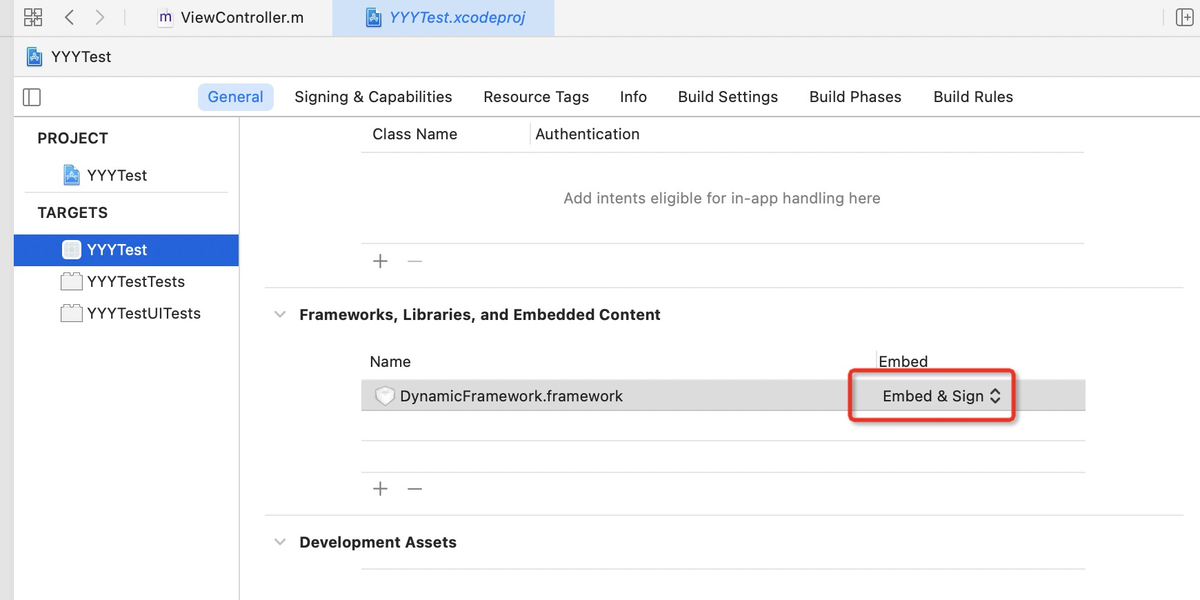
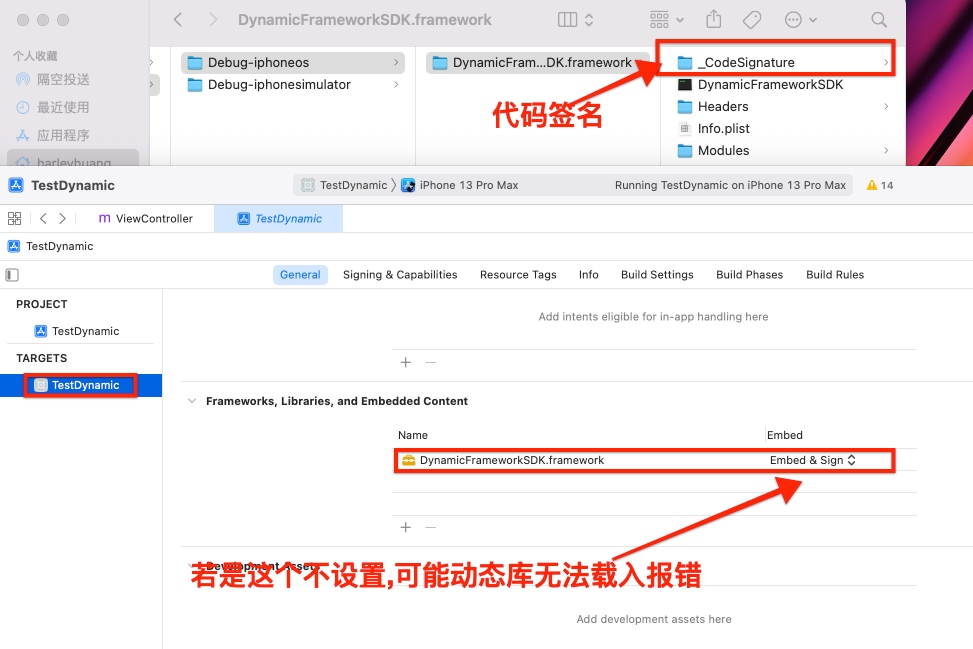
feat: 手动动态库

diff --git a/iOS/Objective-C/静态库动态库.md b/iOS/Objective-C/静态库动态库.md
@@ -672,17 +672,129 @@ AFNetworking的动态库
 
 > <h2 id='动态库打包'>动态库打包</h2>
 
-&emsp; 动态库frame的大包和[静态库.framework生成](#静态库.framework生成)基本一样,但还有些小地方是不同的如下:
 
-- 在动态库大包中需要修改`Mach-o`属性为`Dynamic Library`;
+<br/>
+
+- **创建一个DynamicFrameworkSDK动态库,然后再创建一个Test类文件,将Test文件导入DynamicFrameworkSDK.h文件中,如下:**
+
+![Test文件导入](https://raw.githubusercontent.com/harleyGit/StudyNotes/master/Pictures/ios_oc69.png)
+
+头文件导入:
+
+![头文件导入](https://raw.githubusercontent.com/harleyGit/StudyNotes/master/Pictures/ios_oc68.png)
+
+
+&emsp; 动态库frame的打包和[静态库.framework生成](#静态库.framework生成)基本一样,如在动态库打包中需要修改`Mach-o`属性为`Dynamic Library`;
+
+
+<br/>
+
+- **导出动态库**
+
+&emsp; 使用**Command+B**分别运行真机和模拟器打出真机动态库和模拟器动态库,然后使用 **`lipo -out xxx模拟器库地址 xxx真机库地址 -output /Users/harleyhuang/Desktop/DynamicFrameworkSDK1`** 打出真机和模拟器都能用的动态库.
+
+
+
+&emsp; 这里会出现一个问题那就是,若是模拟器动态库和真机动态库的架构都有arm64则会合并时报错如:
+
+```
+error: /Applications/Xcode.app/Contents/Developer/Toolchains/XcodeDefault.xctoolchain/usr/bin/lipo: xxxx/Products/Debug-iphonesimulator/DynamicFrameworkSDK.framework/DynamicFrameworkSDK and xxxx/Products/Debug-iphoneos/DynamicFrameworkSDK.framework/DynamicFrameworkSDK have the same architectures (arm64) and can't be in the same fat output file
+```
+
+那么则让模拟器排除arm64架构就可以了,如下图:
+
+![模拟器排除arm64架构](https://raw.githubusercontent.com/harleyGit/StudyNotes/master/Pictures/ios_oc70.png)
+
+&emsp; 但是在M1的Mac并且Xcode12版本以上,制作动态库可以不设置,也是可以的.如下:
+
+
+![配置不设置](https://raw.githubusercontent.com/harleyGit/StudyNotes/master/Pictures/ios_oc75.png)
+
+<br/>
+
+
+&emsp; 然后将导出的动态库DynamicFrameworkSDK1拖入真机或者模拟器生成的动态库DynamicFrameworkSDK.framework文件夹内,然后删除其DynamicFrameworkSDK将DynamicFrameworkSDK1改为DynamicFrameworkSDK即可.
+
+如下:
+
+![真机和模拟器的动态库](https://raw.githubusercontent.com/harleyGit/StudyNotes/master/Pictures/ios_oc74.png)
+
+&emsp; 但是在项目中会报错:`building for iOS Simulator, but linking in object file built for iOS, for architecture arm64`这是因为Apple M1，Xcode 12模拟器的库需要的是arm64架构；但是很多第三方针对模拟器编译后的库并不包含arm64，因此报错.
+
+解决方法是使用rossetta2运行XCode,具体设置如下:
+
+![rossetta2](https://raw.githubusercontent.com/harleyGit/StudyNotes/master/Pictures/ios_oc72.png)
+
 
 - 将打包好后的通用库拖进工程,在需要的地方进行如下导入:`#import<xxxxFramework/xxxxFramwork.h>`即可调用功能代码,另外还要进行如下配置流程
 
 ![嵌入](https://raw.githubusercontent.com/harleyGit/StudyNotes/master/Pictures/ios_oc52.png)
 
 
-**注：默认是Do not embed, 需要设置为Embed & Sign，否则会报以下错误:**
+**注：默认是`Do not embed`, 需要设置为`Embed & Sign`，否则会报以下错误:**
 **dyld: Library not loaded: @rpath/DynamicFramework.framework/DynamicFramework Referenced from: /private/var/containers/Bundle/Application/DF439DDF-5DBC-41E3-842D-26FAB1D5BFEE/YYYTest.app/YYYTest Reason: image not found**
+
+<br/>
+
+![运行效果](https://raw.githubusercontent.com/harleyGit/StudyNotes/master/Pictures/ios_oc76.png)
+
+
+
+
+
+<br/>
+<br/>
+
+> **脚本合并真机、模拟器动态库**
+
+- **创建一个脚本**
+
+![script](https://raw.githubusercontent.com/harleyGit/StudyNotes/master/Pictures/ios_oc71.png)
+
+脚本文件为:
+
+```
+if [ "${ACTION}" = "build" ]
+then
+
+INSTALL_DIR=${SRCROOT}/Products/${PROJECT_NAME}.framework
+
+DEVICE_DIR=${BUILD_ROOT}/${CONFIGURATION}-iphoneos/${PROJECT_NAME}.framework
+
+SIMULATOR_DIR=${BUILD_ROOT}/${CONFIGURATION}-iphonesimulator/${PROJECT_NAME}.framework
+
+if [ -d "${INSTALL_DIR}" ]
+
+then
+
+rm -rf "${INSTALL_DIR}"
+
+fi
+
+mkdir -p "${INSTALL_DIR}"
+
+cp -R "${DEVICE_DIR}/" "${INSTALL_DIR}/"
+
+#ditto "${DEVICE_DIR}/Headers" "${INSTALL_DIR}/Headers"
+
+# 使用lipo命令将其合并成一个通用framework  
+
+# 最后将生成的通用framework放置在工程根目录下新建的Products目录下  
+
+lipo -create "${DEVICE_DIR}/${PROJECT_NAME}" "${SIMULATOR_DIR}/${PROJECT_NAME}" -output "${INSTALL_DIR}/${PROJECT_NAME}"
+
+#open "${DEVICE_DIR}"
+
+#open "${SRCROOT}/Products"
+
+fi
+```
+
+
+
+
+
+
 
 
 [模拟器、真机动态库合并脚本](https://www.cnblogs.com/dins/p/ios-gou-jian-dong-tai-ku.html)
